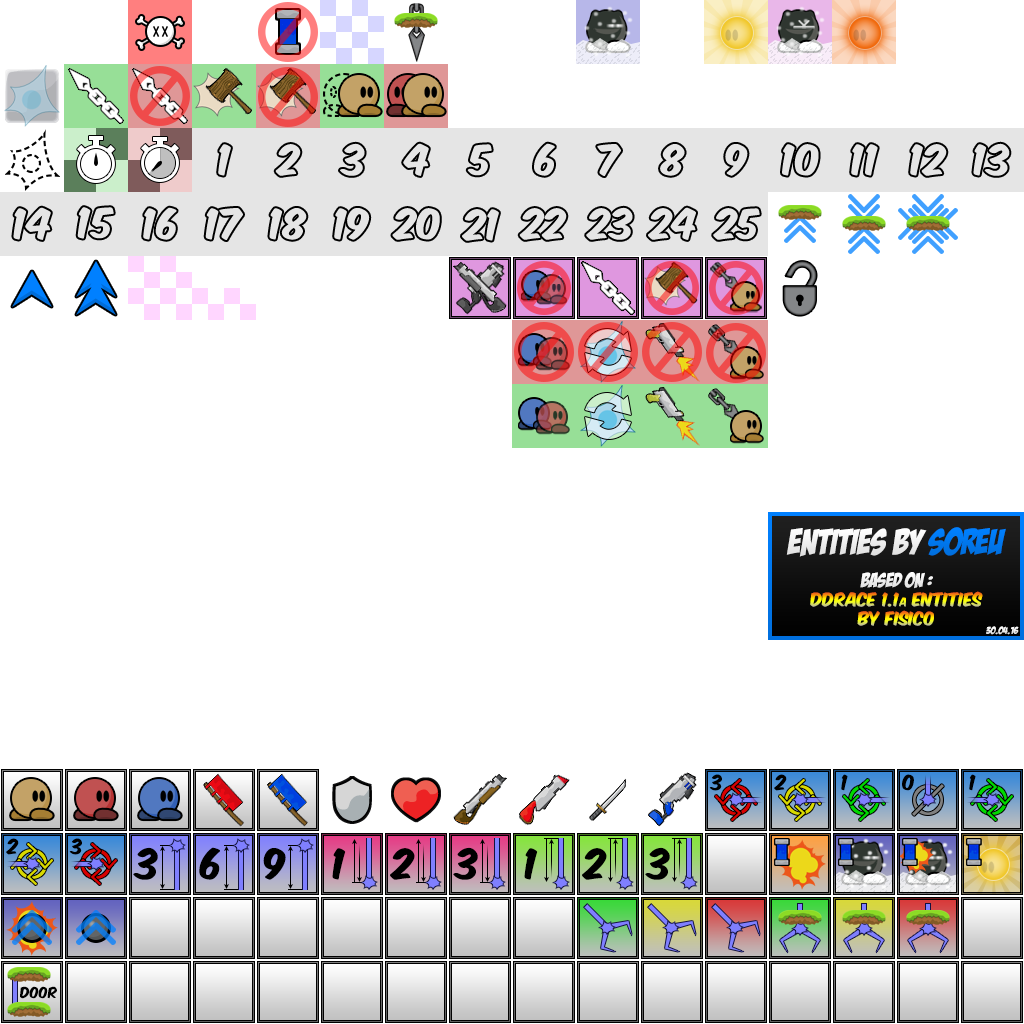
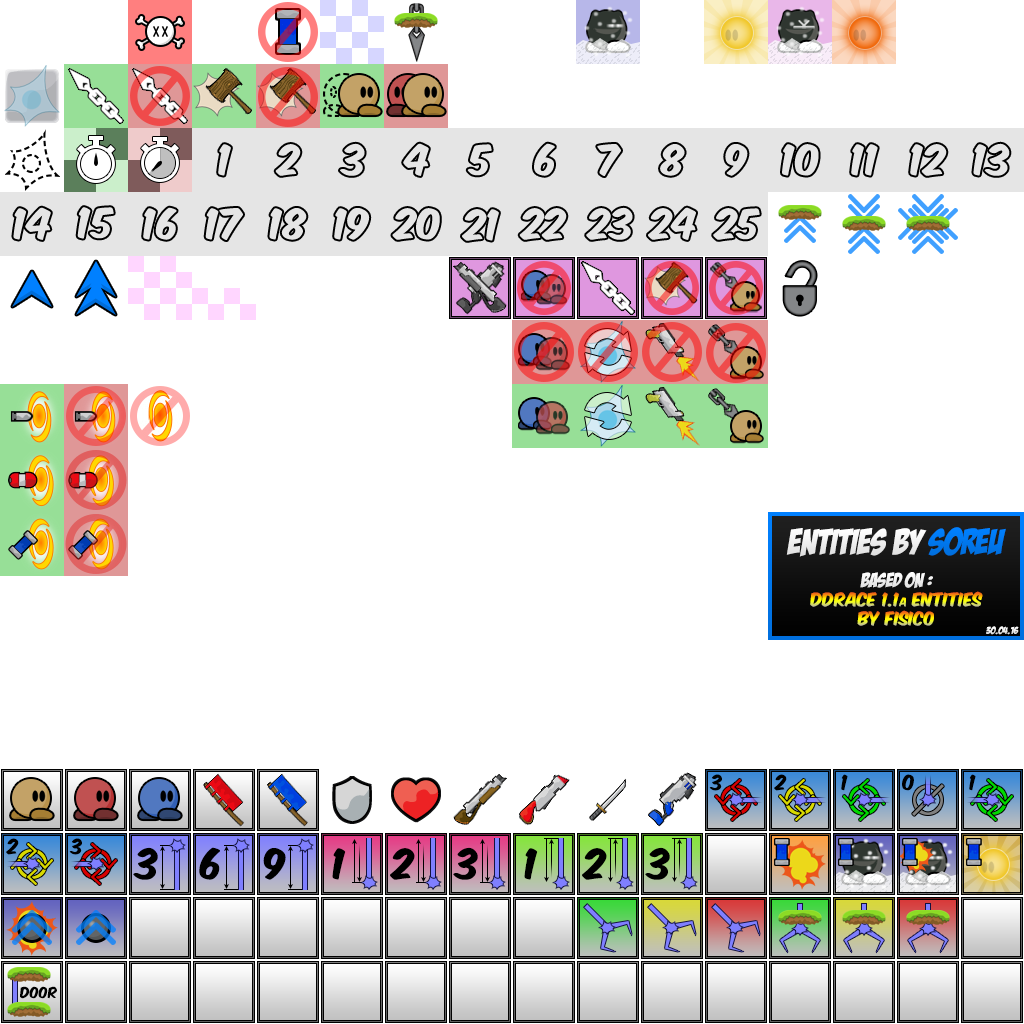
add teleport gun/grenade/laser

Changed region(s): [[0.0, 0.375, 0.1875, 0.5625]]

diff --git a/src/game/server/entities/laser.cpp b/src/game/server/entities/laser.cpp
@@ -20,6 +20,7 @@ CLaser::CLaser(CGameWorld *pGameWorld, vec2 Pos, vec2 Direction, float StartEner
 	m_TelePos = vec2(0,0);
 	m_WasTele = false;
 	m_Type = Type;
+	m_TeleportCancelled = false;
 	m_TuneZone = GameServer()->Collision()->IsTune(GameServer()->Collision()->GetMapIndex(m_Pos));
 	m_TeamMask = GameServer()->GetPlayerChar(Owner) ? GameServer()->GetPlayerChar(Owner)->Teams()->TeamMask(GameServer()->GetPlayerChar(Owner)->Team(), -1, m_Owner) : 0;
 	GameWorld()->InsertEntity(this);
@@ -164,6 +165,52 @@ void CLaser::DoBounce()
 			m_Energy = -1;
 		}
 	}
+
+	if (m_Owner >= 0 && m_Energy <= 0 && m_Pos && !m_TeleportCancelled)
+	{
+		CCharacter *pOwnerChar = GameServer()->GetPlayerChar(m_Owner);
+
+		if (pOwnerChar && pOwnerChar->IsAlive() && pOwnerChar->m_HasTeleLaser && m_Type == WEAPON_RIFLE)
+		{
+			int64_t TeamMask = pOwnerChar->Teams()->TeamMask(pOwnerChar->Team(), -1, m_Owner);
+
+			vec2 PossiblePos;
+			bool Found = false;
+
+			bool pDontHitSelf = g_Config.m_SvOldLaser || (m_Bounces == 0 && !m_WasTele);
+			vec2 At;
+			CCharacter *pHit;
+			if(pOwnerChar ? (!(pOwnerChar->m_Hit&CCharacter::DISABLE_HIT_RIFLE) && m_Type == WEAPON_RIFLE) : g_Config.m_SvHit)
+				pHit = GameServer()->m_World.IntersectCharacter(m_Pos, To, 0.f, At, pDontHitSelf ? pOwnerChar : 0, m_Owner);
+			else
+				pHit = GameServer()->m_World.IntersectCharacter(m_Pos, To, 0.f, At, pDontHitSelf ? pOwnerChar : 0, m_Owner, pOwnerChar);
+
+			if(pHit)
+				Found = GetNearestAirPosPlayer(pHit->m_Pos, &PossiblePos);
+			else
+				Found = GetNearestAirPos(m_Pos, &PossiblePos);
+
+			if (Found && PossiblePos)
+			{
+				GameServer()->CreateDeath(pOwnerChar->Core()->m_Pos, pOwnerChar->GetPlayer()->GetCID(),
+					(m_Owner != -1) ? TeamMask : -1LL);
+				pOwnerChar->Core()->m_Pos = PossiblePos;
+				pOwnerChar->Core()->m_Vel = vec2(0, 0);
+				GameServer()->CreateDeath(m_Pos, pOwnerChar->GetPlayer()->GetCID(), (m_Owner != -1) ? TeamMask : -1LL);
+				GameServer()->CreateSound(m_Pos, SOUND_WEAPON_SPAWN, (m_Owner != -1) ? TeamMask : -1LL);
+			}
+		}
+	}
+	else if(m_Owner >= 0 && m_Pos)
+	{
+		int MapIndex = GameServer()->Collision()->GetPureMapIndex(round_to_int(Coltile.x), round_to_int(Coltile.y));
+		int TileIndex = GameServer()->Collision()->GetTileIndex(MapIndex);
+		int TileFIndex = GameServer()->Collision()->GetFTileIndex(MapIndex);
+
+		if (m_Type == WEAPON_RIFLE && (TileIndex == TILE_NO_TELE_GUN || TileFIndex == TILE_NO_TELE_GUN))
+			m_TeleportCancelled = true;
+	}
+
 	//m_Owner = -1;
 }
 

diff --git a/src/game/server/entities/projectile.cpp b/src/game/server/entities/projectile.cpp
@@ -106,7 +106,6 @@ vec2 CProjectile::GetPos(float Time)
 	return CalcPos(m_Pos, m_Direction, Curvature, Speed, Time);
 }
 
-
 void CProjectile::Tick()
 {
 	float Pt = (Server()->Tick()-m_StartTick-1)/(float)Server()->TickSpeed();
@@ -168,6 +167,61 @@ void CProjectile::Tick()
 		}
 		else if(pTargetChr && m_Freeze && ((m_Layer == LAYER_SWITCH && GameServer()->Collision()->m_pSwitchers[m_Number].m_Status[pTargetChr->Team()]) || m_Layer != LAYER_SWITCH))
 			pTargetChr->Freeze();
+
+		if (pOwnerChar && ColPos && !GameLayerClipped(ColPos))
+		{
+			bool IsTeleValid = false;
+			switch (m_Type)
+			{
+				case WEAPON_GRENADE:
+					{
+						if (pOwnerChar->m_HasTeleGrenade)
+							IsTeleValid = true;
+						break;
+					}
+				case WEAPON_GUN:
+					{
+						if (pOwnerChar->m_HasTeleGun)
+							IsTeleValid = true;
+						break;
+					}
+			}
+
+			if (IsTeleValid)
+			{
+				int MapIndex = GameServer()->Collision()->GetPureMapIndex(round_to_int(pTargetChr ? pTargetChr->m_Pos.x : ColPos.x),
+				round_to_int(pTargetChr ? pTargetChr->m_Pos.y : ColPos.y));
+				int TileIndex = GameServer()->Collision()->GetTileIndex(MapIndex);
+				int TileFIndex = GameServer()->Collision()->GetFTileIndex(MapIndex);
+
+				bool IsTileValid = false;
+				
+				if ((m_Type == WEAPON_GUN || m_Type == WEAPON_GRENADE) && (TileIndex != TILE_NO_TELE_GUN && TileFIndex != TILE_NO_TELE_GUN))
+					IsTileValid = true;
+
+				if (IsTileValid)
+				{
+					bool Found;
+					vec2 PossiblePos;
+
+					if (pTargetChr)
+						Found = GetNearestAirPosPlayer(pTargetChr->m_Pos, &PossiblePos);
+					else
+						Found = GetNearestAirPos(ColPos, &PossiblePos);
+
+					if (Found && PossiblePos)
+					{
+						GameServer()->CreateDeath(pOwnerChar->Core()->m_Pos, pOwnerChar->GetPlayer()->GetCID(),
+							(m_Owner != -1) ? TeamMask : -1LL);
+						pOwnerChar->Core()->m_Pos = PossiblePos;
+						pOwnerChar->Core()->m_Vel = vec2(0, 0);
+						GameServer()->CreateDeath(PossiblePos, pOwnerChar->GetPlayer()->GetCID(), (m_Owner != -1) ? TeamMask : -1LL);
+						GameServer()->CreateSound(PossiblePos, SOUND_WEAPON_SPAWN, (m_Owner != -1) ? TeamMask : -1LL);
+					}
+				}
+			}
+		}
+
 		if(Collide && m_Bouncing != 0)
 		{
 			m_StartTick = Server()->Tick();

diff --git a/src/game/server/entities/character.cpp b/src/game/server/entities/character.cpp
@@ -42,6 +42,10 @@ bool CCharacter::Spawn(CPlayer *pPlayer, vec2 Pos)
 	m_LastPenalty = false;
 	m_LastBonus = false;
 
+	m_HasTeleGun = false;
+	m_HasTeleLaser = false;
+	m_HasTeleGrenade = false;
+
 	m_pPlayer = pPlayer;
 	m_Pos = Pos;
 
@@ -1620,6 +1624,40 @@ void CCharacter::HandleTiles(int Index)
 	if((m_TileIndex != TILE_REFILL_JUMPS) && (m_TileFIndex != TILE_REFILL_JUMPS))
 	{
 		m_LastRefillJumps = false;
+	}
+
+	// Teleport gun
+	if (((m_TileIndex == TILE_TELE_GUN_ENABLE) || (m_TileFIndex == TILE_TELE_GUN_ENABLE)) && !m_HasTeleGun)
+	{
+		m_HasTeleGun = true;
+		GameServer()->SendChatTarget(GetPlayer()->GetCID(), "Teleport gun enabled");
+	}
+	else if (((m_TileIndex == TILE_TELE_GUN_DISABLE) || (m_TileFIndex == TILE_TELE_GUN_DISABLE)) && m_HasTeleGun)
+	{
+		m_HasTeleGun = false;
+		GameServer()->SendChatTarget(GetPlayer()->GetCID(), "Teleport gun disabled");
+	}
+
+	if (((m_TileIndex == TILE_TELE_GRENADE_ENABLE) || (m_TileFIndex == TILE_TELE_GRENADE_ENABLE)) && !m_HasTeleGrenade)
+	{
+		m_HasTeleGrenade = true;
+		GameServer()->SendChatTarget(GetPlayer()->GetCID(), "Teleport grenade enabled");
+	}
+	else if (((m_TileIndex == TILE_TELE_GRENADE_DISABLE) || (m_TileFIndex == TILE_TELE_GRENADE_DISABLE)) && m_HasTeleGrenade)
+	{
+		m_HasTeleGrenade = false;
+		GameServer()->SendChatTarget(GetPlayer()->GetCID(), "Teleport grenade disabled");
+	}
+
+	if (((m_TileIndex == TILE_TELE_LASER_ENABLE) || (m_TileFIndex == TILE_TELE_LASER_ENABLE)) && !m_HasTeleLaser)
+	{
+		m_HasTeleLaser = true;
+		GameServer()->SendChatTarget(GetPlayer()->GetCID(), "Teleport laser enabled");
+	}
+	else if (((m_TileIndex == TILE_TELE_LASER_DISABLE) || (m_TileFIndex == TILE_TELE_LASER_DISABLE)) && m_HasTeleLaser)
+	{
+		m_HasTeleLaser = false;
+		GameServer()->SendChatTarget(GetPlayer()->GetCID(), "Teleport laser disabled");
 	}
 
 	// stopper

diff --git a/src/game/server/entity.cpp b/src/game/server/entity.cpp
@@ -54,3 +54,48 @@ bool CEntity::GameLayerClipped(vec2 CheckPos)
 	return round_to_int(CheckPos.x)/32 < -200 || round_to_int(CheckPos.x)/32 > GameServer()->Collision()->GetWidth()+200 ||
 			round_to_int(CheckPos.y)/32 < -200 || round_to_int(CheckPos.y)/32 > GameServer()->Collision()->GetHeight()+200 ? true : false;
 }
+
+bool CEntity::GetNearestAirPos(vec2 Pos, vec2* pOutPos)
+{
+	vec2 PosInBlock = vec2(round_to_int(Pos.x) % 32, round_to_int(Pos.y) % 32);
+	vec2 BlockCenter = vec2(round_to_int(Pos.x), round_to_int(Pos.y)) - PosInBlock + vec2(16.0f, 16.0f);
+
+	float Size = 31.0f; // A bit less than the tile size
+
+	*pOutPos = vec2(BlockCenter.x + (PosInBlock.x < 16 ? -Size : Size), Pos.y);
+	if (!GameServer()->Collision()->TestBox(*pOutPos, vec2(28.0f, 28.0f)))
+		return true;
+
+	*pOutPos = vec2(BlockCenter.x + (PosInBlock.x < 16 ? -Size : Size), BlockCenter.y);
+	if (!GameServer()->Collision()->TestBox(*pOutPos, vec2(28.0f, 28.0f)))
+		return true;
+
+	*pOutPos = vec2(Pos.x, BlockCenter.y + (PosInBlock.y < 16 ? -Size : Size));
+	if (!GameServer()->Collision()->TestBox(*pOutPos, vec2(28.0f, 28.0f)))
+		return true;
+
+	*pOutPos = vec2(BlockCenter.x, BlockCenter.y + (PosInBlock.y < 16 ? -Size : Size));
+	if (!GameServer()->Collision()->TestBox(*pOutPos, vec2(28.0f, 28.0f)))
+		return true;
+
+	*pOutPos = vec2(BlockCenter.x + (PosInBlock.x  < 16 ? -Size : Size),
+		BlockCenter.y + (PosInBlock.y < 16 ? -Size : Size));
+	if (!GameServer()->Collision()->TestBox(*pOutPos, vec2(28.0f, 28.0f)))
+		return true;
+
+	return false;
+}
+
+bool CEntity::GetNearestAirPosPlayer(vec2 PlayerPos, vec2* OutPos)
+{
+	int dist = 5;
+	for (; dist >= -1; dist--)
+	{
+		*OutPos = vec2(PlayerPos.x, PlayerPos.y - dist);
+		if (!GameServer()->Collision()->TestBox(*OutPos, vec2(28.0f, 28.0f)))
+		{
+			return true;
+		}
+	}
+	return false;
+}

diff --git a/src/game/mapitems.cpp b/src/game/mapitems.cpp
@@ -13,6 +13,9 @@ bool IsValidGameTile(int Index)
 		|| (Index >= TILE_CP && Index <= TILE_THROUGH_DIR)
 		|| (Index >= TILE_OLDLASER && Index <= TILE_UNLOCK_TEAM)
 		|| (Index >= TILE_NPC_END && Index <= TILE_NPH_END)
+		|| (Index >= TILE_TELE_GUN_ENABLE && Index <= TILE_NO_TELE_GUN)
+		|| (Index >= TILE_TELE_GRENADE_ENABLE && Index <= TILE_TELE_GRENADE_DISABLE)
+		|| (Index >= TILE_TELE_LASER_ENABLE && Index <= TILE_TELE_LASER_DISABLE)
 		|| (Index >= TILE_NPC_START && Index <= TILE_NPH_START)
 		|| (Index >= TILE_ENTITIES_OFF_1 && Index <= TILE_ENTITIES_OFF_2)
 		||  IsValidEntity(Index)
@@ -32,6 +35,9 @@ bool IsValidFrontTile(int Index)
 		|| (Index >= TILE_CP && Index <= TILE_THROUGH_DIR)
 		|| (Index >= TILE_OLDLASER && Index <= TILE_UNLOCK_TEAM)
 		|| (Index >= TILE_NPC_END && Index <= TILE_NPH_END)
+		|| (Index >= TILE_TELE_GUN_ENABLE && Index <= TILE_NO_TELE_GUN)
+		|| (Index >= TILE_TELE_GRENADE_ENABLE && Index <= TILE_TELE_GRENADE_DISABLE)
+		|| (Index >= TILE_TELE_LASER_ENABLE && Index <= TILE_TELE_LASER_DISABLE)
 		|| (Index >= TILE_NPC_START && Index <= TILE_NPH_START)
 		||  IsValidEntity(Index)
 	);

diff --git a/src/game/collision.cpp b/src/game/collision.cpp
@@ -682,9 +682,9 @@ bool CCollision::TileExists(int Index)
 	if(Index < 0)
 		return false;
 
-	if(m_pTiles[Index].m_Index >= TILE_FREEZE && m_pTiles[Index].m_Index <= TILE_NPH_START)
+	if(m_pTiles[Index].m_Index >= TILE_FREEZE && m_pTiles[Index].m_Index <= TILE_TELE_LASER_DISABLE)
 		return true;
-	if(m_pFront && m_pFront[Index].m_Index >= TILE_FREEZE && m_pFront[Index].m_Index  <= TILE_NPH_START)
+	if(m_pFront && m_pFront[Index].m_Index >= TILE_FREEZE && m_pFront[Index].m_Index  <= TILE_TELE_LASER_DISABLE)
 		return true;
 	if(m_pTele && (m_pTele[Index].m_Type == TILE_TELEIN || m_pTele[Index].m_Type == TILE_TELEINEVIL || m_pTele[Index].m_Type == TILE_TELECHECKINEVIL ||m_pTele[Index].m_Type == TILE_TELECHECK || m_pTele[Index].m_Type == TILE_TELECHECKIN))
 		return true;

diff --git a/src/game/mapitems.h b/src/game/mapitems.h
@@ -149,10 +149,17 @@ enum
 	TILE_JETPACK_END,
 	TILE_NPH_END,
 	TILE_BONUS = 95,
+	TILE_TELE_GUN_ENABLE = 96,
+	TILE_TELE_GUN_DISABLE = 97,
+	TILE_NO_TELE_GUN = 98,
 	TILE_NPC_START = 104,
 	TILE_SUPER_START,
 	TILE_JETPACK_START,
 	TILE_NPH_START,
+	TILE_TELE_GRENADE_ENABLE = 112,
+	TILE_TELE_GRENADE_DISABLE = 113,
+	TILE_TELE_LASER_ENABLE = 128,
+	TILE_TELE_LASER_DISABLE = 129,
 	TILE_ENTITIES_OFF_1 = 190,
 	TILE_ENTITIES_OFF_2,
 	//End of higher tiles

diff --git a/src/game/server/entities/character.h b/src/game/server/entities/character.h
@@ -251,6 +251,9 @@ public:
 	bool m_LastRefillJumps;
 	bool m_LastPenalty;
 	bool m_LastBonus;
+	bool m_HasTeleGun;
+	bool m_HasTeleGrenade;
+	bool m_HasTeleLaser;
 
 	// Setters/Getters because i don't want to modify vanilla vars access modifiers
 	int GetLastWeapon() { return m_LastWeapon; };

diff --git a/src/game/server/entity.h b/src/game/server/entity.h
@@ -163,6 +163,9 @@ public:
 	vec2 m_Pos;
 
 	// DDRace
+	
+	bool GetNearestAirPos(vec2 Pos, vec2* OutPos);
+	bool GetNearestAirPosPlayer(vec2 PlayerPos, vec2* OutPos);
 
 	int m_Number;
 	int m_Layer;

diff --git a/src/game/server/entities/laser.h b/src/game/server/entities/laser.h
@@ -35,6 +35,7 @@ private:
 	vec2 m_PrevPos;
 	int m_Type;
 	int m_TuneZone;
+	bool m_TeleportCancelled;
 };
 
 #endif
